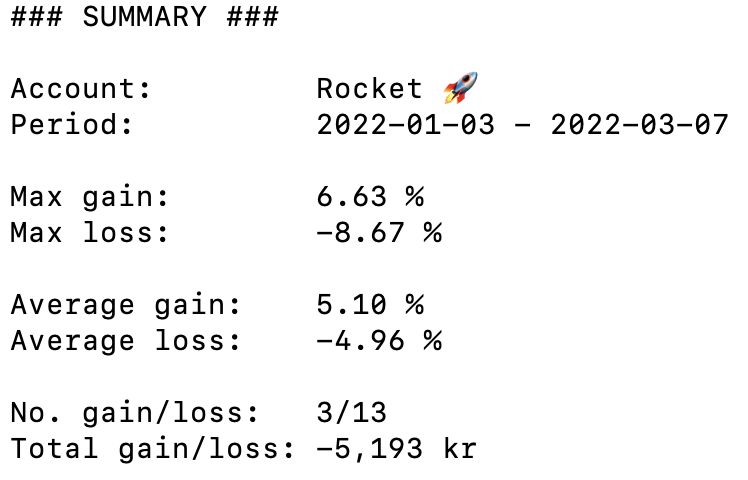
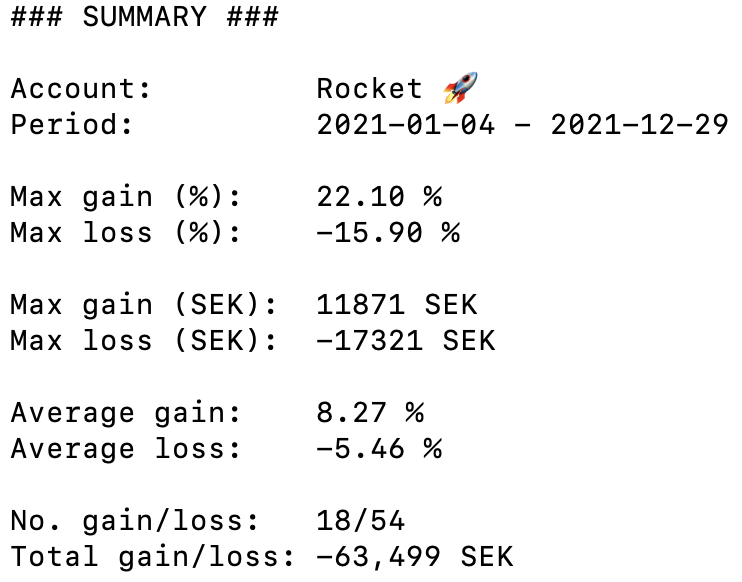
Gain/loss sek

diff --git a/app.py b/app.py
@@ -1,14 +1,9 @@
 import pandas as pd
 
 DESIRED_ACCOUNT = 'Rocket 🚀'
-FILE = 'data/transaktioner_2022-01-01_2022-03-26.csv'
+FILE = 'data/transaktioner_2021-01-01_2021-12-31.csv'
 
 pd.set_option('display.max_rows', None)
-
-
-def format_kronor(x):
-    return '{:,.0f} kr'.format(x)
-
 
 # Read in the CSV file
 df = pd.read_csv(FILE, delimiter=";")
@@ -19,11 +14,14 @@ df = df[df['Konto'] == DESIRED_ACCOUNT]
 # Filter the datafram to only include ones that have ISIN not equal to -
 df = df[df['ISIN'] != '-']
 
-# Filter the dataframe to only include transactions in the desired date range
-# df = df[df['Datum'].str.contains('2022')]
+# Filter the dataframe to only include ones of the desired Typ av transaktion (Köp, Sälj)
+df = df[df['Typ av transaktion'].isin(['Köp', 'Sälj'])]
 
 # Convert Antal to int
 df['Antal'] = df['Antal'].astype(int)
+
+# Convert Belopp to float
+df['Belopp'] = df['Belopp'].astype(float)
 
 # Filter the datafram to only include transactions of same ISIN that have the same Antal
 df = df.groupby(['ISIN', 'Värdepapper/beskrivning']
@@ -43,24 +41,28 @@ percentage_change = ((sum_sell / sum_buy * -1) - 1) * 100
 # Create a dataframe with the desired columns
 output = pd.concat(
     [
-        sum_sell.apply(format_kronor),
-        sum_buy.apply(format_kronor),
-        sum_gain.apply(format_kronor),
+        sum_sell.apply('{:.0f}'.format),
+        sum_buy.apply('{:.0f}'.format),
+        sum_gain.apply('{:.0f}'.format),
         percentage_change.apply('{:,.2f} %'.format),
     ],
     axis=1,
     keys=['Sell (SEK)', 'Buy (SEK)', 'Gain (SEK)', 'Change (%)'])
 
-# Sort output by gain
-output = output.sort_values(by=['Gain (SEK)'], ascending=False)
+# Sort the dataframe by the gain
+output = output.iloc[pd.to_numeric(output['Gain (SEK)']).argsort()[::-1]]
+
 
 print("### SUMMARY ###\n")
 
 print(f"Account:\t {DESIRED_ACCOUNT}")
 print(f"Period:\t\t {df['Datum'].min()} - {df['Datum'].max()}\n")
 
-print(f"Max gain:\t {percentage_change.max():.2f} %")
-print(f"Max loss:\t {percentage_change.min():.2f} %\n")
+print(f"Max gain (%):\t {percentage_change.max():.2f} %")
+print(f"Max loss (%):\t {percentage_change.min():.2f} %\n")
+
+print(f"Max gain (SEK):\t {sum_gain.max():.0f} SEK")
+print(f"Max loss (SEK):\t {sum_gain.min():.0f} SEK\n")
 
 print(
     f"Average gain:\t {percentage_change[percentage_change > 0].mean():.2f} %")
@@ -71,7 +73,7 @@ print(
     f"No. gain/loss:\t {percentage_change[percentage_change > 0].count()}/{percentage_change[percentage_change < 0].count()}")
 
 # print sum of all gains
-print(f"Total gain/loss: {sum_gain.sum():,.0f} kr")
+print(f"Total gain/loss: {sum_gain.sum():,.0f} SEK")
 
 print("\n### RESULTS ###\n")
 
